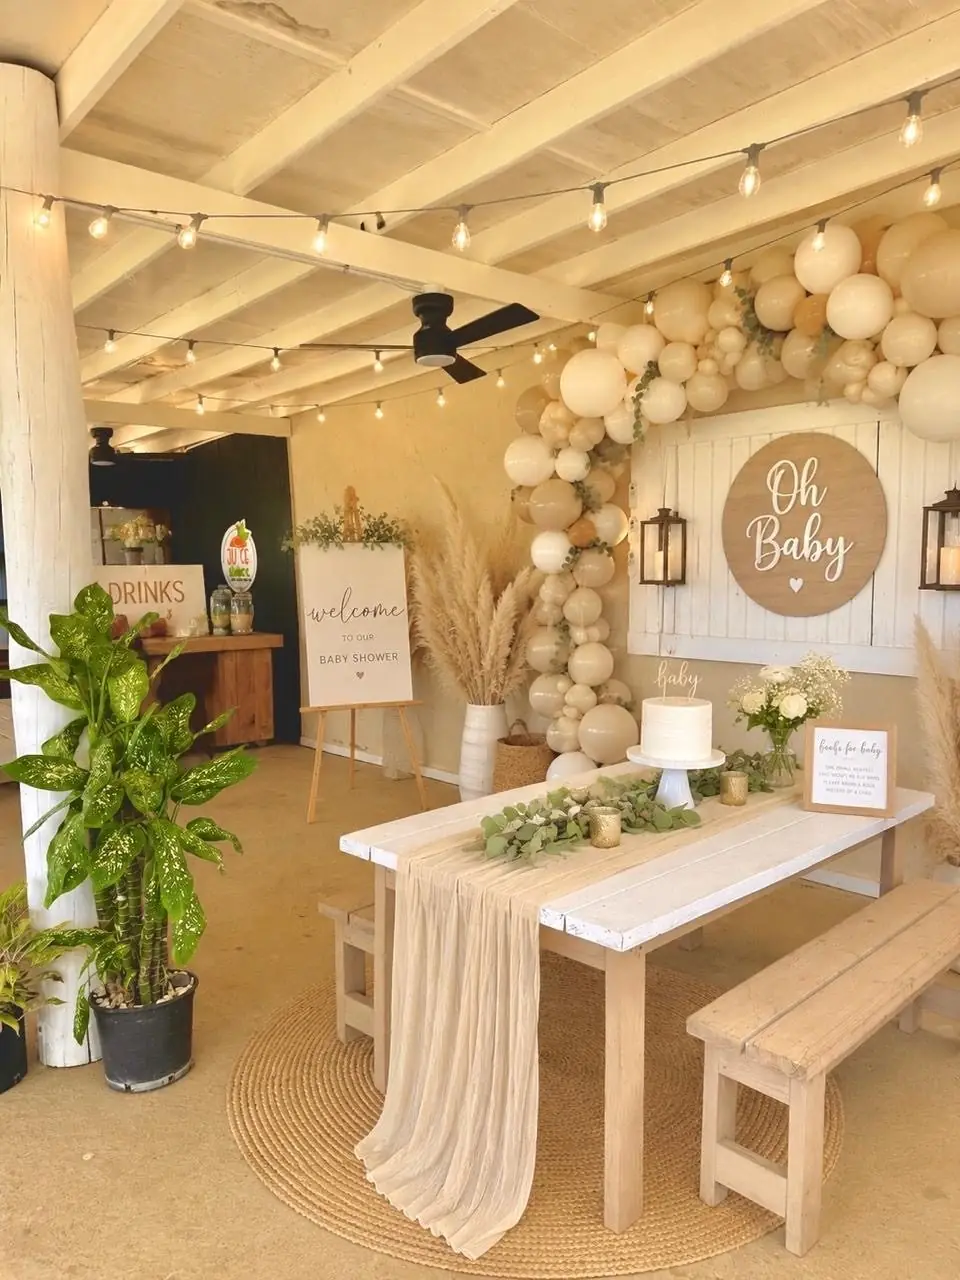
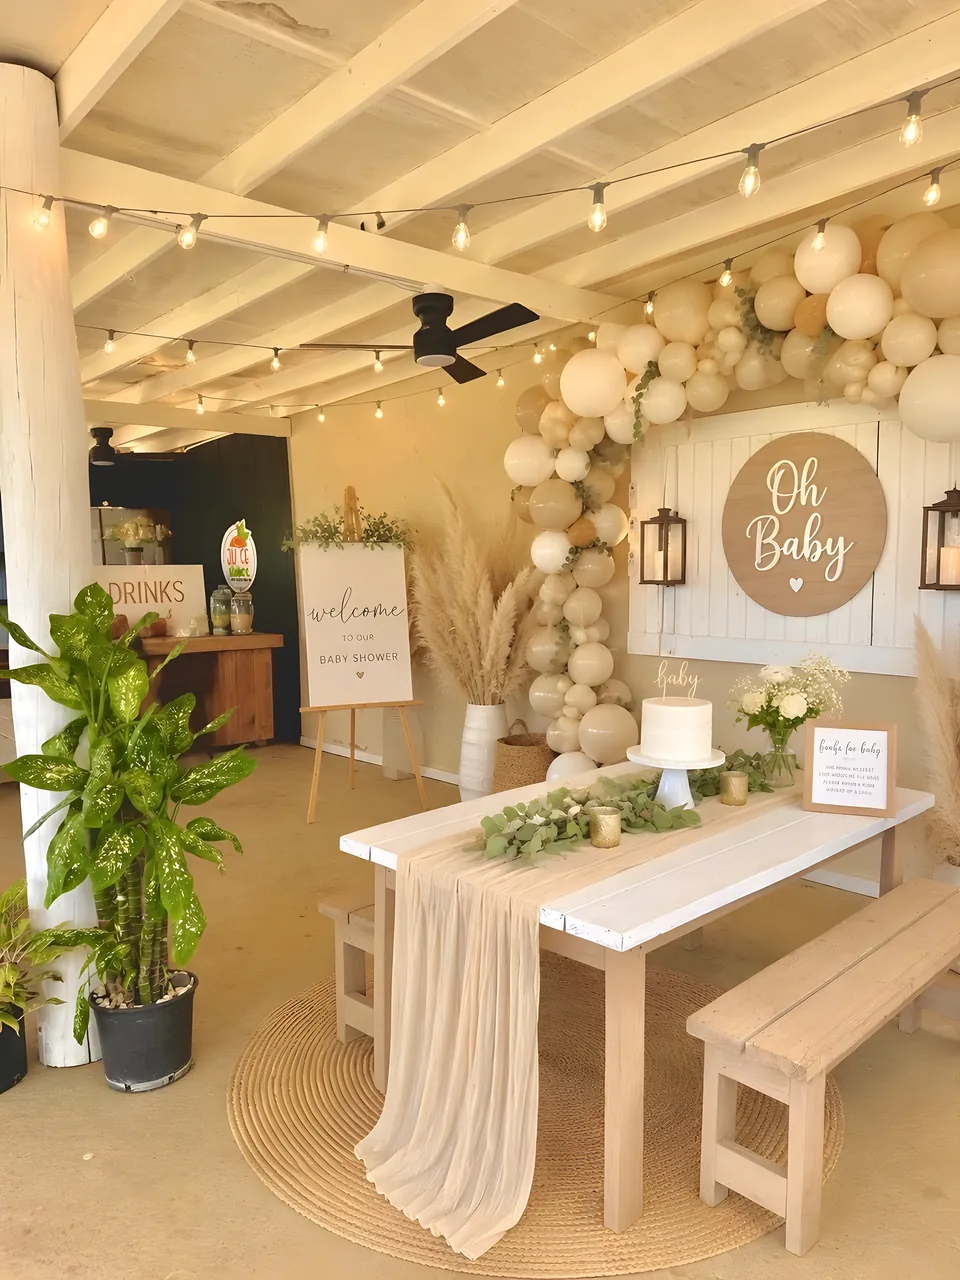
Sharper wedding and baby shower slides; keep orange headings bright
- Wedding and baby shower hero photos upscaled 4x with Real-ESRGAN (the
  wedding blended with the original so the lace and faces stay natural),
  served as WebP q82 up to 2400px plus 1920px JPG fallbacks.
- The orange second line of each hero heading no longer picks up the new
  text shadow, which had turned it muddy.

Claude-Session: https://claude.ai/code/session_01TNjwvAvVxNJjxixmTAXvKX

diff --git a/fiwi-place/index.html b/fiwi-place/index.html
@@ -78,7 +78,7 @@
 
     <div class="hero-slide" data-slide="1">
       <div class="hero-bg theme-babyshower" aria-hidden="true">
-        <img class="hero-photo hero-photo--babyshower" data-src="assets/photos/baby-shower-oh-baby.jpg" data-srcset="assets/photos/baby-shower-oh-baby-640.webp 640w, assets/photos/baby-shower-oh-baby-960.webp 960w" sizes="100vw" decoding="async" alt="">
+        <img class="hero-photo hero-photo--babyshower" data-src="assets/photos/baby-shower-oh-baby.jpg" data-srcset="assets/photos/baby-shower-oh-baby-640.webp 640w, assets/photos/baby-shower-oh-baby-960.webp 960w, assets/photos/baby-shower-oh-baby-1280.webp 1280w, assets/photos/baby-shower-oh-baby-1600.webp 1600w, assets/photos/baby-shower-oh-baby-1920.webp 1920w, assets/photos/baby-shower-oh-baby-2400.webp 2400w" sizes="100vw" decoding="async" alt="">
         <span class="blob b1"></span><span class="blob b2"></span><span class="blob b3"></span>
         <span class="arch"></span>
       </div>
@@ -106,7 +106,7 @@
 
     <div class="hero-slide" data-slide="3">
       <div class="hero-bg theme-brunch" aria-hidden="true">
-        <img class="hero-photo" data-src="assets/photos/wedding-aisle-ceremony.jpg" data-srcset="assets/photos/wedding-aisle-ceremony-640.webp 640w, assets/photos/wedding-aisle-ceremony-960.webp 960w, assets/photos/wedding-aisle-ceremony-1290.webp 1290w" sizes="100vw" decoding="async" alt="">
+        <img class="hero-photo" data-src="assets/photos/wedding-aisle-ceremony.jpg" data-srcset="assets/photos/wedding-aisle-ceremony-640.webp 640w, assets/photos/wedding-aisle-ceremony-960.webp 960w, assets/photos/wedding-aisle-ceremony-1280.webp 1280w, assets/photos/wedding-aisle-ceremony-1290.webp 1290w, assets/photos/wedding-aisle-ceremony-1600.webp 1600w, assets/photos/wedding-aisle-ceremony-1920.webp 1920w, assets/photos/wedding-aisle-ceremony-2400.webp 2400w" sizes="100vw" decoding="async" alt="">
         <span class="blob b1"></span><span class="blob b2"></span><span class="blob b3"></span>
         <span class="arch"></span>
       </div>

diff --git a/fiwi-place/css/style.css b/fiwi-place/css/style.css
@@ -1645,3 +1645,4 @@ html.intro-lock, html.intro-lock body { overflow: hidden; }
 .hero-content .hero-eyebrow, .hero-content .hero-title, .hero-content .hero-copy { text-shadow: 0 2px 18px rgba(0, 0, 0, 0.55), 0 1px 3px rgba(0, 0, 0, 0.35); }
 .hero-content .text-flame { filter: drop-shadow(0 2px 10px rgba(0, 0, 0, 0.45)); }
 .hero-bg:has(.hero-photo)::after { opacity: 0.35; } /* lighter film grain over photos */
+.hero-content .hero-title .text-flame { text-shadow: none; }
